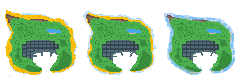
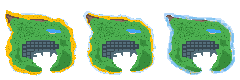
Update island animation and change some colors and display widths

diff --git a/src/levelSelect.css b/src/levelSelect.css
@@ -30,6 +30,7 @@
     background-color: #d4b76a;
     border-radius: 50px;
     width: 80%;
+    max-width: 800px;
     padding: 2%;
     text-align: center;
 }
@@ -81,13 +82,43 @@
 
 .project__title-image{
     width: 60%;
+    max-width: 350px;
     height:auto;
-    
+
 }
 
 .gameplay-gif{
     width: 60%;
+    max-width: 500px;
     border-radius: 30px;
+}
+
+.show-more{
+    margin-top: 15px;
+    padding: 10px 22px;
+    background-color: #ffcd3c;
+    border: 3px solid #333;
+    border-radius: 10px;
+    box-shadow: 4px 4px 0 #333;
+    color: #333;
+    font-size: 0.75rem;
+    letter-spacing: 1px;
+    cursor: pointer;
+    transition: background-color 0.15s ease;
+}
+
+.show-more:hover{
+    background-color: #ffdb70;
+}
+
+.show-more:active{
+    transform: translate(4px, 4px);
+    box-shadow: 0 0 0 #333;
+}
+
+.show-more:focus-visible{
+    outline: 3px solid #9933ff;
+    outline-offset: 3px;
 }
 
 #projects h1{

diff --git a/src/title.css b/src/title.css
@@ -246,19 +246,22 @@ It should bounce a compress
 
 @keyframes background-day-night{
     0%{
-        background-color: lightblue
+        background-color: #4FA8DE;
     }
     25%{
-        background-color: rgb(136, 52, 91)
+        background-color: #6C4F82;
     }
     50%{
-        background-color: rgb(21, 19, 29)
+        background-color: #131A3A;
     }
-    85%{
-        background-color: orange
+    72%{
+        background-color: #4A5B8C;
+    }
+    90%{
+        background-color: #E8A672;
     }
     100%{
-        background-color: lightblue
+        background-color: #4FA8DE;
     }
 }
 

diff --git a/src/titleScreen/IslandElementClass.js b/src/titleScreen/IslandElementClass.js
@@ -46,6 +46,12 @@ export class IslandElement {
     createSpriteAnims(){
         if (!this.type.animation)return
         if (this.type.animation == "rotate"){
+            // Preload every frame so the CSS keyframe animation never steps to a
+            // background-image the browser hasn't fetched yet (causes a blank flash).
+            this.type.imgSrc.forEach((src) => {
+                new Image().src = src;
+            });
+
             // Stores what part (in percents) of the animation each sprite is set at
             let framePercents = [];
             let frames = []
